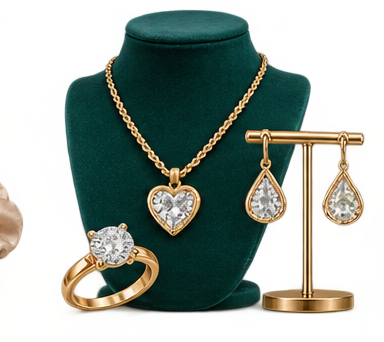
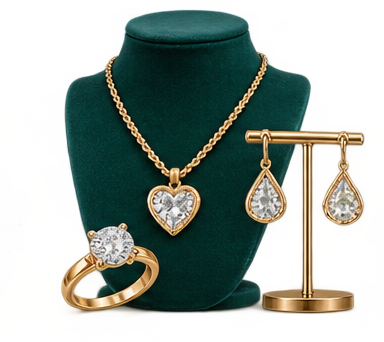
Substitui duas artes aprovadas dos cabeçalhos de categorias

Changed region(s): [[0.0, 0.5263, 0.0625, 0.7602]]

diff --git a/src/components/importadoras/category-header-assets.ts b/src/components/importadoras/category-header-assets.ts
@@ -51,8 +51,8 @@ const headers = [
     slugs: ["embalagens-personalizadas"],
     title: "Embalagens Personalizadas",
     image: embalagens,
-    width: 1448,
-    height: 1086,
+    width: 1536,
+    height: 1024,
   },
   {
     slugs: ["games-e-eletronicos", "games-e-acessorios", "eletronicos"],
